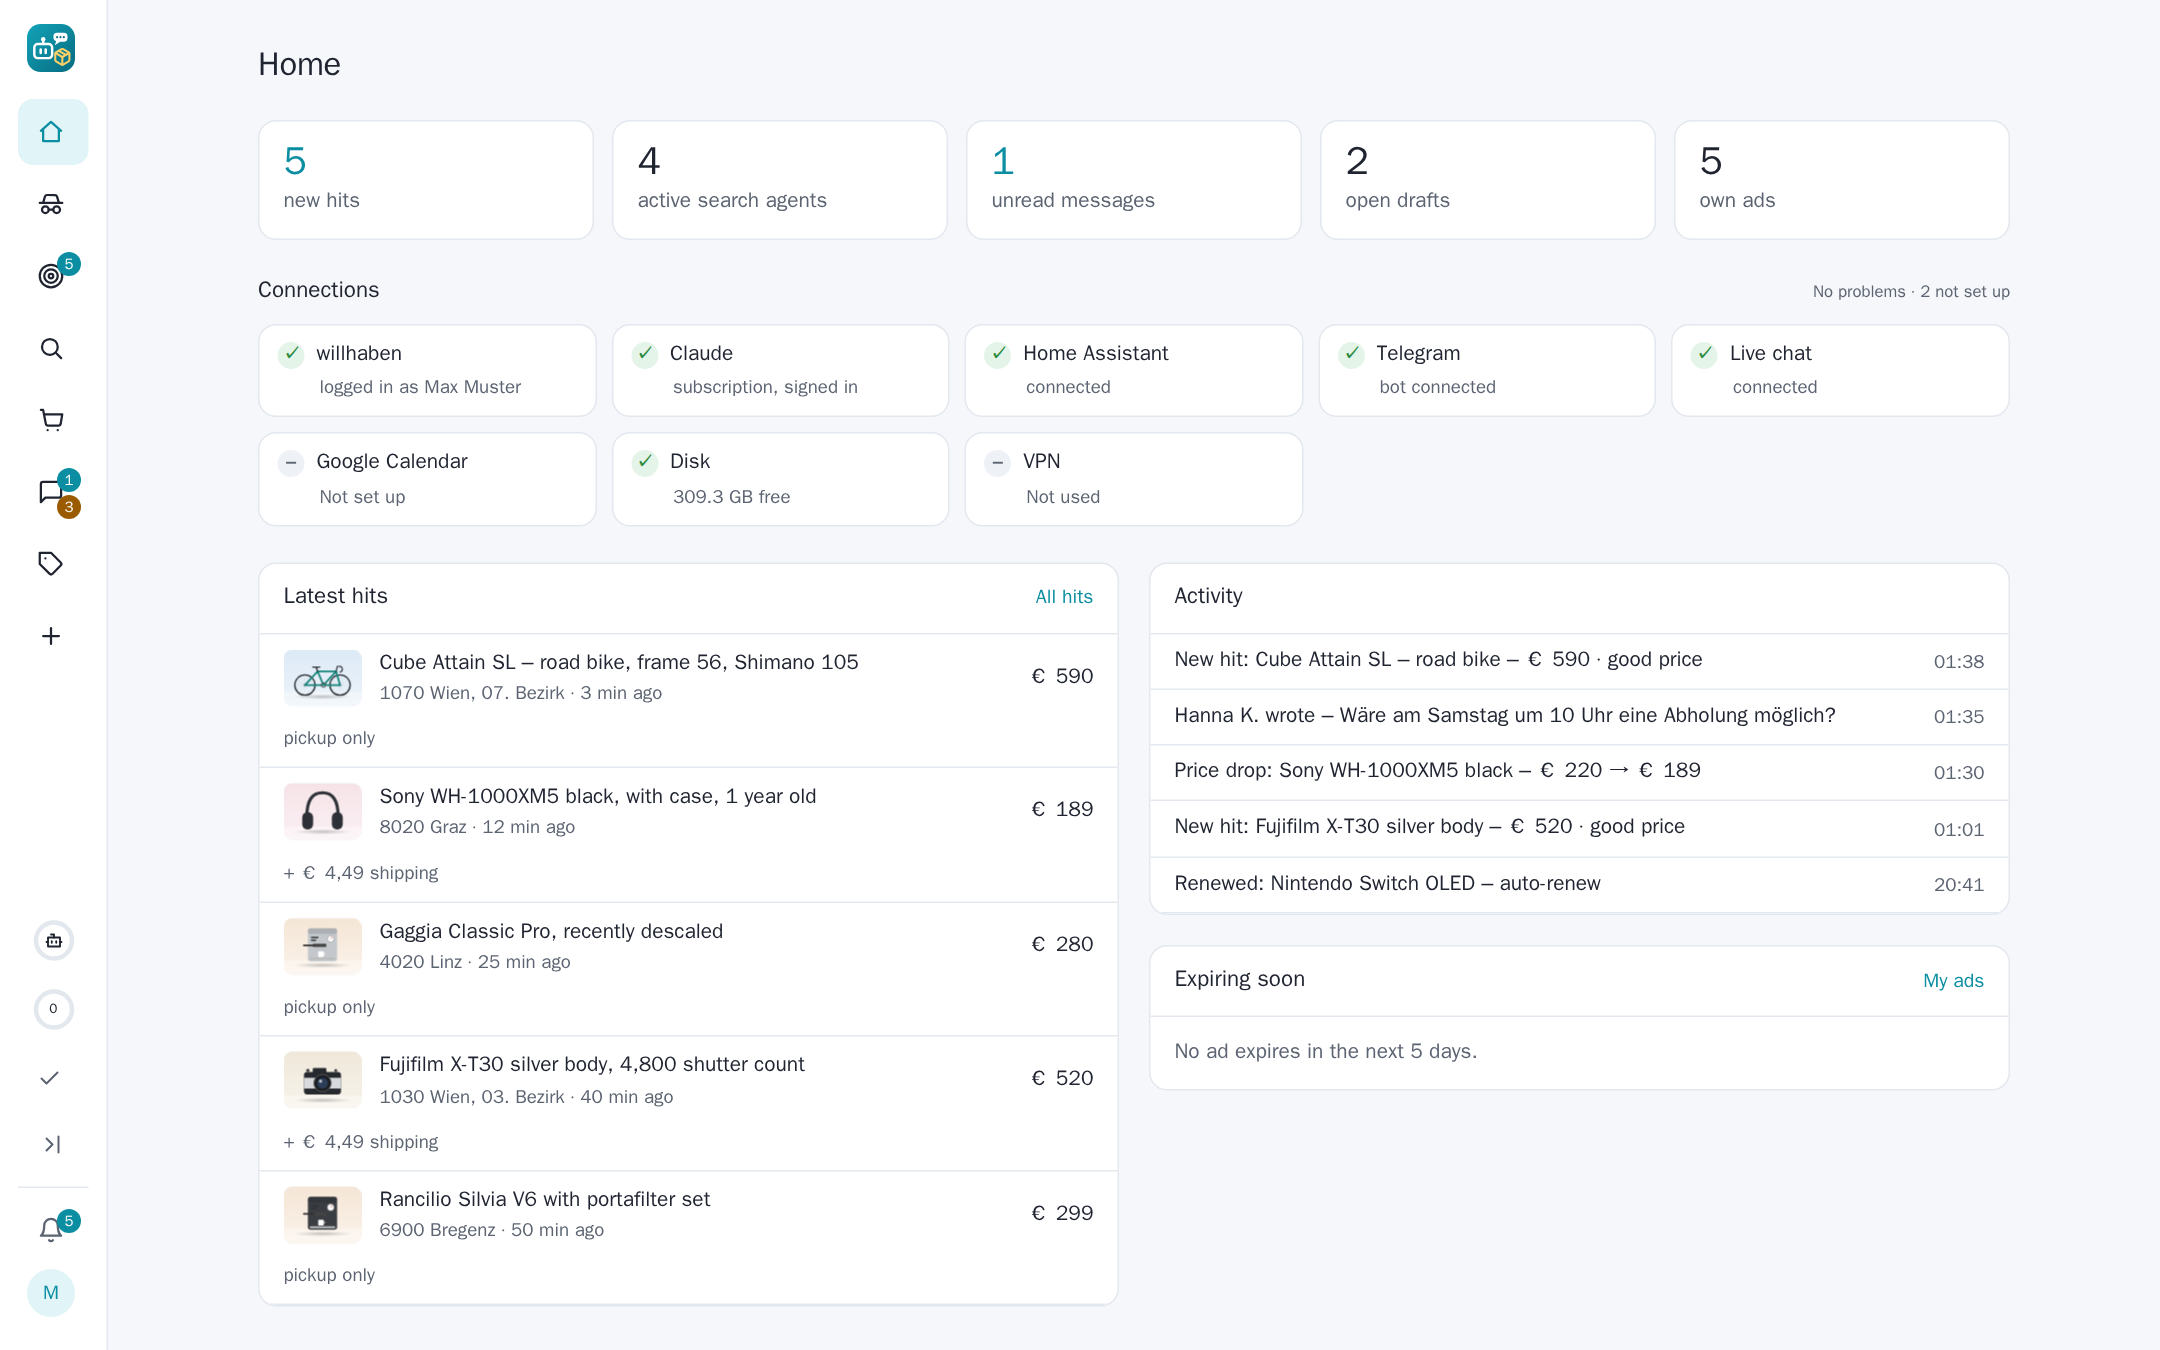
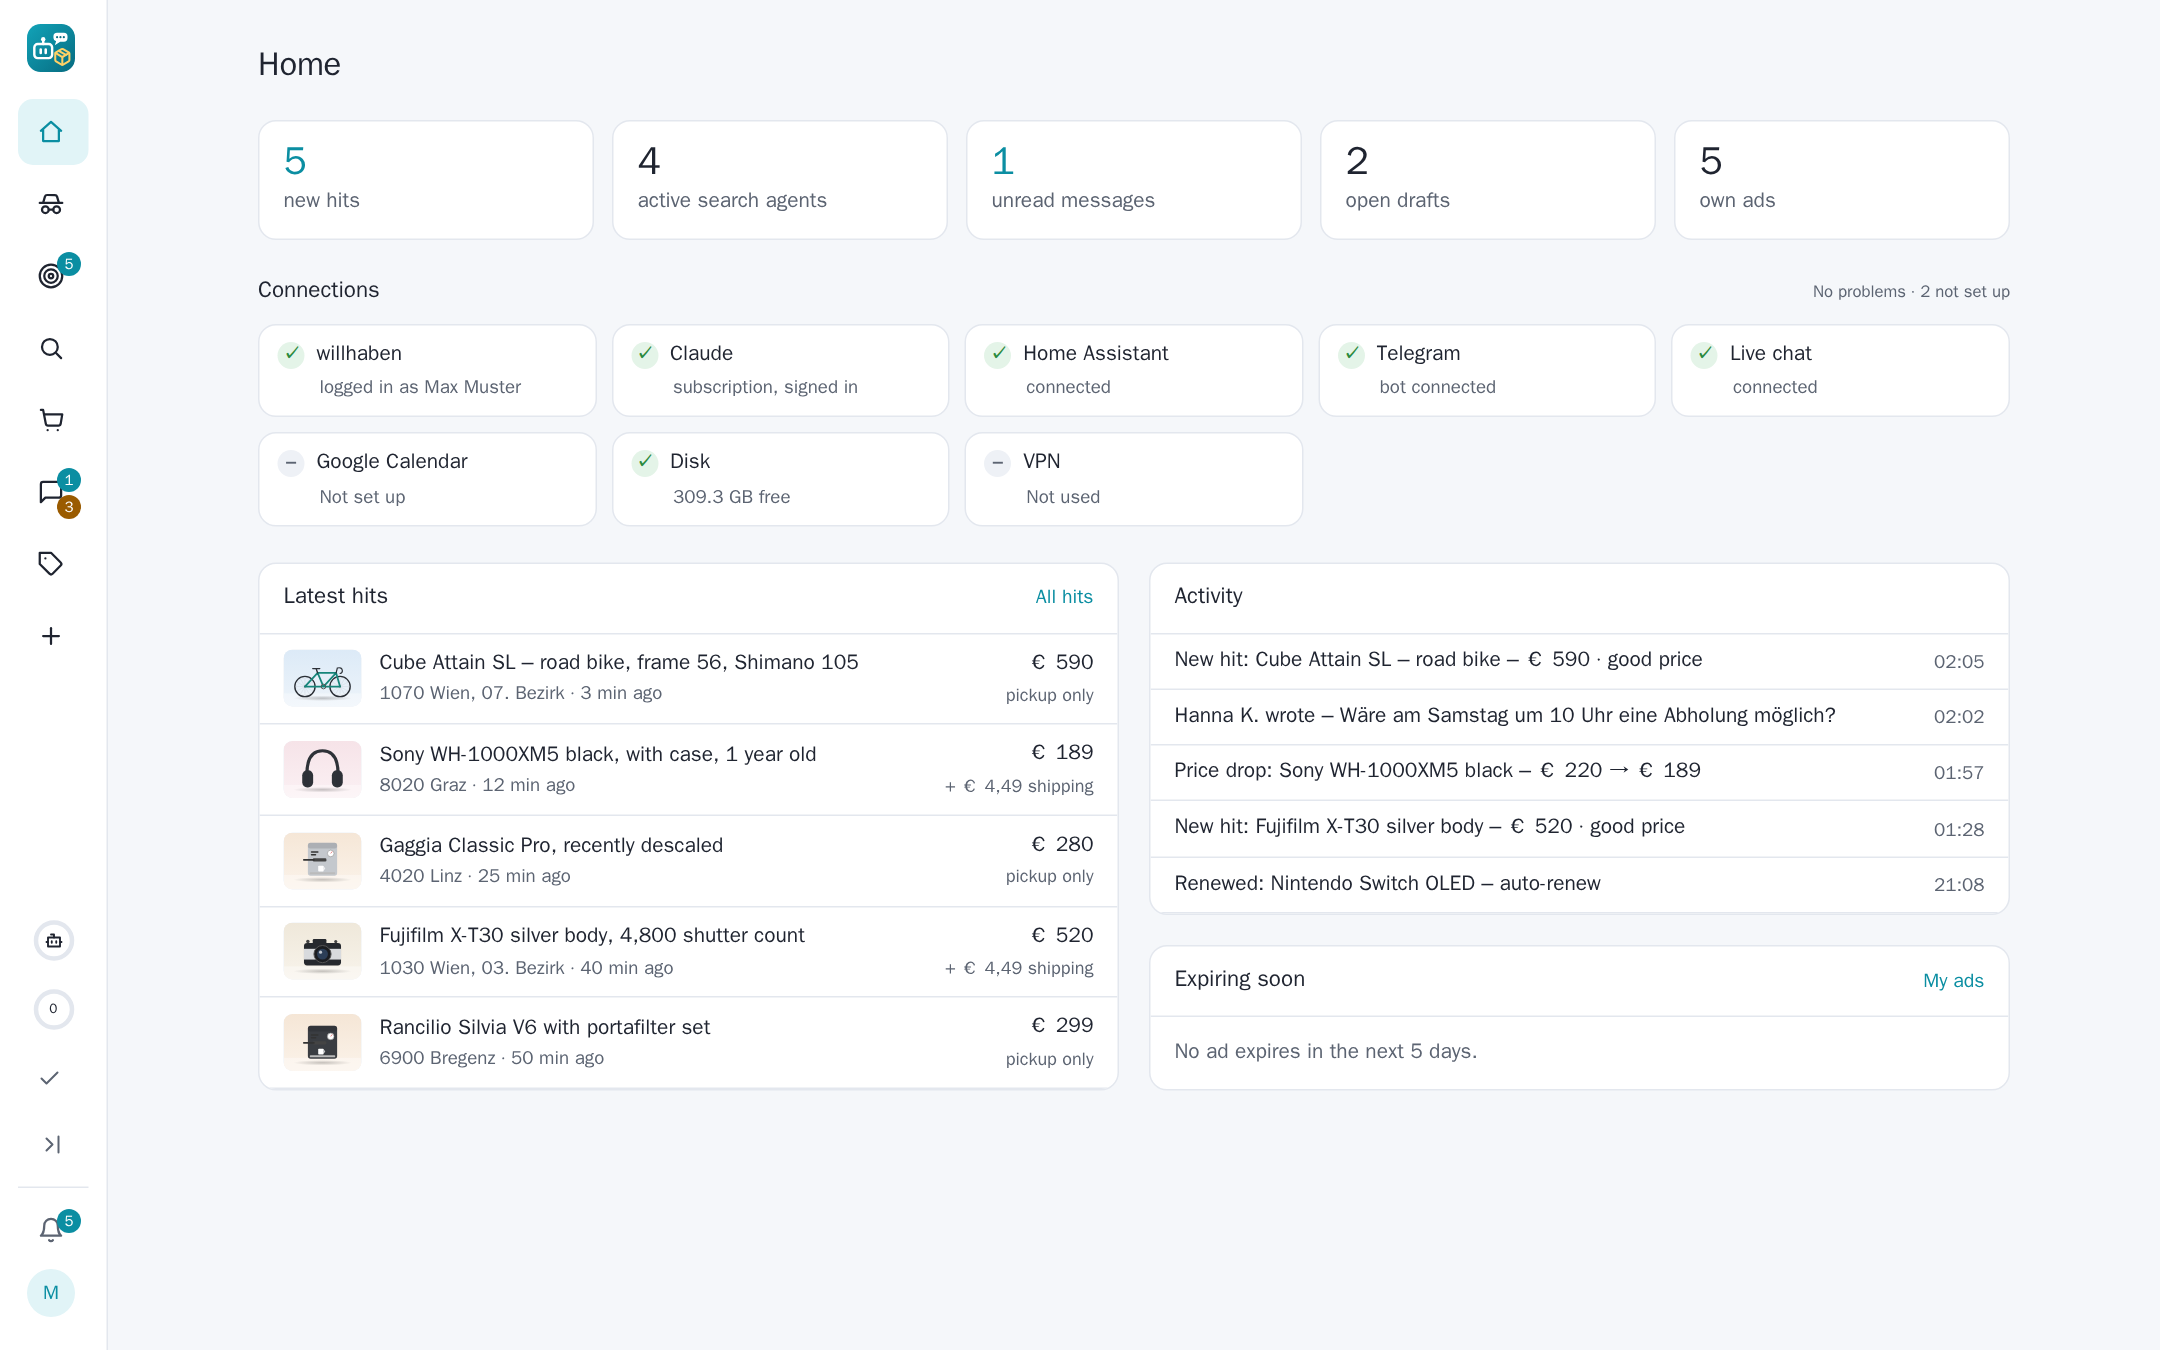
Polish: clearer sale button, the ad's status in the UI language
- The chat's sale button says what it does ("Mark sold to …") instead
  of reading like a status.
- A chat's ad status (stored in German for Claude) shows in the UI
  language, and not at all while the ad is simply online.
- Tests follow the singular counts; the demo uses real draft intents;
  README screenshots renewed.

Claude-Session: https://claude.ai/code/session_01EVgoGxr1Bpv8GkskYJcxcx

diff --git a/app/templates/chat.html b/app/templates/chat.html
@@ -198,7 +198,7 @@
     <div class="flex min-w-0 flex-col gap-1 px-3.5 py-3">
       <div class="flex min-w-0 flex-wrap items-center gap-1.5">{{ ui.tag(_("Selling") if selling else _("Buying"), not selling) }}<span class="text-[12.5px] text-muted">{{ _("Your ad") if selling else _("Someone else's ad") }}</span></div>
       <a href="{{ ad.url }}" target="_blank" rel="noopener" class="break-words font-semibold text-base-content no-underline hover:underline">{{ ad.title }}</a>
-      {% set where = [ad.location, ad.status]|select|join(' · ') %}
+      {% set where = [ad.location, ad_status_label(ad.status)]|select|join(' · ') %}
       {% if ad.price or where %}<div class="flex min-w-0 flex-wrap items-baseline gap-x-2 gap-y-0.5">{% if ad.price %}<span class="text-[15px] font-semibold tabular-nums">{{ ad.price }}</span>{% endif %}{% if where %}<span class="min-w-0 break-words text-[12.5px] text-muted">{{ where }}</span>{% endif %}</div>{% endif %}
       {% if ad.description %}<details class="mt-1.5 text-[13px]"><summary class="cursor-pointer text-primary">{{ _("Description") }}</summary><p class="mt-1.5 break-words whitespace-pre-wrap">{{ ad.description }}</p></details>{% endif %}
     </div>

diff --git a/app/templates/tg/_panels.html b/app/templates/tg/_panels.html
@@ -44,7 +44,7 @@
       {% if st %}<span style="display: grid; grid-template-columns: 1fr 1fr; gap: 6px">
         <label class="sub">{{ _("Pieces") }}<input class="field" type="number" name="pieces" value="1" min="1" max="{{ st.remaining }}" required></label>
         <label class="sub">{{ _("Total price (€, optional)") }}<input class="field" inputmode="decimal" name="price" value="{{ ('%.2f'|format(p.agreed)).rstrip('0').rstrip('.') if p.agreed is not none else '' }}"></label></span>{% endif %}
-      <button class="chip primary" style="width: 100%" data-sell>{{ ui.icon('check', 14) }} {% if who %}{{ _("Sold to {name}", name=who) }}{% elif st %}{{ _("Record sale") }}{% else %}{{ _("Mark sold") }}{% endif %}</button>
+      <button class="chip primary" style="width: 100%" data-sell>{{ ui.icon('check', 14) }} {% if who %}{{ _("Mark sold to {name}", name=who) }}{% elif st %}{{ _("Record sale") }}{% else %}{{ _("Mark sold") }}{% endif %}</button>
     </form>
     {% endif %}
     {% if kind == 'reserved' %}

diff --git a/app/templates/tg/chat_info.html b/app/templates/tg/chat_info.html
@@ -25,7 +25,7 @@
     {% if ad.images %}<img src="{{ ad.images[0] }}" alt="" style="display: block; width: 100%; height: 180px; object-fit: cover; background: rgba(118,118,128,.2)" onerror="this.style.display='none'">{% endif %}
     <div style="padding: 10px 14px; display: flex; flex-direction: column; gap: 4px">
       <a href="{{ ad.url }}" target="_blank" hx-boost="false" style="font-weight: 600; color: var(--text)">{{ ad.title }} ↗</a>
-      {% set where = [ad.location, ad.status]|select|join(' · ') %}
+      {% set where = [ad.location, ad_status_label(ad.status)]|select|join(' · ') %}
       <span>{% if ad.price %}<strong>{{ ad.price }}</strong>{% endif %}{% if where %} <span class="sub">{{ where }}</span>{% endif %}</span>
       {% if ad.description %}<details><summary class="sub" style="color: var(--link)">{{ _("Description") }}</summary><p style="font-size: 14px; white-space: pre-wrap; overflow-wrap: anywhere">{{ ad.description }}</p></details>{% endif %}
     </div>

diff --git a/app/templates/_sale_actions.html b/app/templates/_sale_actions.html
@@ -57,7 +57,7 @@
       {% endif %}
       <button class="{{ 'btn btn-primary whitespace-nowrap max-sm:px-2 max-sm:text-[13px]' if inline else 'btn btn-primary btn-sm h-auto min-h-8 w-full justify-start py-1.5 text-left whitespace-normal break-words' }}"
               title="{{ _('Records the sale here (automatic answers off) and marks the ad sold on willhaben – that step waits a few seconds in the queue, where you can take it back.') if not st else _('Records the sale here; the last piece marks the ad sold on willhaben.') }}">
-        {{ ui.icon('check', 14) }}{% if who %}{{ _("Sold to {name}", name=who) }}{% elif st %}{{ _("Record sale") }}{% else %}{{ _("Mark sold") }}{% endif %}</button>
+        {{ ui.icon('check', 14) }}{% if who %}{{ _("Mark sold to {name}", name=who) }}{% elif st %}{{ _("Record sale") }}{% else %}{{ _("Mark sold") }}{% endif %}</button>
     </form>
     {% endif %}
     {% if kind == 'reserved' %}

diff --git a/tests/test_sold.py b/tests/test_sold.py
@@ -271,10 +271,10 @@ def test_web_flow(ad_with_chats, monkeypatch):
     s = FakeSession(_page(_links("setAdSold"), "adId=1"), REASONS)
     monkeypatch.setattr(sold, "get_session", lambda: s)
     with TestClient(app) as c:
-        assert "Sold to Max Muster" in c.get("/chats/c-buyer").text
+        assert "Mark sold to Max Muster" in c.get("/chats/c-buyer").text
         assert f"/sold/{AD}?kind=sold" in c.get("/myads").text
         page = c.get(f"/sold/{AD}?kind=sold&buyer=c-buyer").text
-        assert "Erika Muster" in page and "Sold to Max Muster" in page and "Reserve for Max Muster" in page
+        assert "Erika Muster" in page and "Mark sold to Max Muster" in page and "Reserve for Max Muster" in page
         assert 'hx-post="/sold/1000000001/reserve"' in c.get("/chats/c-buyer").text        # one click, no extra page
         myads = c.get(f"/myads?ad={AD}").text
         assert 'hx-post="/sold/1000000001/sell"' in myads and "Mark sold…" not in myads
@@ -316,7 +316,7 @@ def test_web_flow(ad_with_chats, monkeypatch):
 
         # the sold ad: no second sale button; "Not sold after all" lifts the local status only
         page = c.get("/chats/c-buyer").text
-        assert "to this buyer" in page and "Sold to Max Muster" not in page and "Not sold after all" in page
+        assert "to this buyer" in page and "Mark sold to Max Muster" not in page and "Not sold after all" in page
         r = c.post(f"/sold/{AD}/reset", data={"kind": "sold", "buyer": "c-buyer", "next": "/chats/c-buyer"}, follow_redirects=False)
         assert r.headers["location"] == "/chats/c-buyer" and sold.ad_row(AD).sale_status is None
 
@@ -607,7 +607,7 @@ def test_stock_web_flow(ad_with_chats, monkeypatch):
         db.commit()
     with TestClient(app) as c:
         page = c.get(f"/sold/{AD}?kind=sold&buyer=c-buyer").text
-        assert 'name="pieces"' not in page and "Sold to Max Muster" in page and "Stock" not in page   # one item: as before
+        assert 'name="pieces"' not in page and "Mark sold to Max Muster" in page and "Stock" not in page   # one item: as before
 
         assert c.post(f"/myads/{AD}/quantity", data={"quantity": "3"}, headers=auto).json() == {"ok": True, "error": None}
         for bad in ("0", "1000", "abc", "-2"):
@@ -618,7 +618,7 @@ def test_stock_web_flow(ad_with_chats, monkeypatch):
 
         page = c.get(f"/sold/{AD}?kind=sold&buyer=c-buyer").text
         assert "3 of 3 pieces left" in page and 'name="pieces"' in page and 'value="40.5"' in page
-        assert "Sold to Max Muster" in page and "Mark on willhaben" not in page and 'name="conv"' not in page
+        assert "Mark sold to Max Muster" in page and "Mark on willhaben" not in page and 'name="conv"' not in page
         assert page.count("the others are told only with the last piece") == 1
         assert "Record sale" in c.get(f"/sold/{AD}?kind=sold").text                      # no buyer: the plain label
 
@@ -672,7 +672,7 @@ def test_stock_web_flow(ad_with_chats, monkeypatch):
         last = _sale_of("c-2")
         r = c.post(f"/sold/{AD}/sales/{last.id}/undo", data={"kind": "sold", "buyer": "c-2"})
         assert "automatic answers and auto-renew stay off until you switch them on again" in r.text
-        assert "Sold to Erika Muster" in r.text and 'name="pieces"' in r.text          # pieces again: the sale form is back
+        assert "Mark sold to Erika Muster" in r.text and 'name="pieces"' in r.text          # pieces again: the sale form is back
         assert c.post(f"/myads/{AD}/quantity", data={"quantity": ""}, headers=auto).json()["ok"] is True
     assert sold.ad_row(AD).quantity is None
 

diff --git a/scripts/demo_screenshots.py b/scripts/demo_screenshots.py
@@ -318,11 +318,11 @@ def seed() -> None:
                            read=True if d == "out" else None))
         db.add(Draft(conversation_id="c1", text="Hallo Hanna, Samstag um 10 Uhr passt gut. Die Adresse ist Musterstraße 1, "
                      "1070 Wien – läute bitte bei Muster. Das Rad ist frisch geputzt und die Bremsen sind eingestellt.",
-                     intent="appointment", model="claude-sonnet-5-5", created_at=ago(minutes=5),
+                     intent="logistics", model="claude-sonnet-5-5", created_at=ago(minutes=5),
                      alternatives=[{"label": "Sonntag vorschlagen", "instruction": "Schlag Sonntag 11 Uhr vor"},
                                    {"label": "Nur Versand", "instruction": "Biete Versand an"}]))
         db.add(Draft(conversation_id="c3", text="Hallo Sabine, 220 € ist mir zu wenig – 245 € inklusive der beiden Spiele "
-                     "wäre für mich in Ordnung.", intent="negotiate", model="claude-sonnet-5-5", created_at=ago(minutes=119),
+                     "wäre für mich in Ordnung.", intent="price_negotiation", model="claude-sonnet-5-5", created_at=ago(minutes=119),
                      suggested_price=245))
 
         # own ads

diff --git a/app/services/chats.py b/app/services/chats.py
@@ -823,6 +823,20 @@ def clean_alternatives(raw: Any) -> list[dict[str, str]] | None:
     return out or None
 
 
+def ad_status_label(status: str | None) -> str:
+    """The ad's status from a chat's ad context, for the page (Jinja global): stored in German or as the site's word
+    because Claude reads it; shown in the UI language, and "" while the ad is simply online."""
+    low = (status or "").strip().lower()
+    if not low or low.startswith(("active", "aktiv")):
+        return ""
+    if "nicht mehr online" in low or low in ("gone", "deleted"):
+        return t("no longer online")
+    for key in ("sold", "reserved", "expired"):
+        if low.startswith(key) or low.startswith({"sold": "verkauft", "reserved": "reserviert", "expired": "abgelaufen"}[key]):
+            return t(key)
+    return status or ""
+
+
 def intent_label(intent: str | None) -> str:
     """A draft's intent in the UI language (Jinja global, the draft's header on the chat page): REPLY_SCHEMA's enum
     and sold.NOTICE_INTENTS. "" for none and for "other" (says nothing); an unknown value (a draft saved over the API)

diff --git a/app/main.py b/app/main.py
@@ -290,7 +290,7 @@ templates.env.globals.update(presence_of=lambda conv: chats.presence_of(conv),  
 templates.env.globals.update(credentials_state=credentials_svc.stored)   # login details card (services/credentials.py)
 templates.env.globals.update(login_sites=lambda: [("willhaben", "willhaben")] + [(s.id, s.name) for s in site_accounts.SITES.values()])
 templates.env.globals.update(paylivery_step=lambda d, conv: paylivery_advice.view(d, conv))   # the draft's PayLivery step
-templates.env.globals.update(intent_label=chats.intent_label)        # the draft's header on the chat page
+templates.env.globals.update(intent_label=chats.intent_label, ad_status_label=chats.ad_status_label)        # the draft's header on the chat page
 templates.env.globals.update(style_panel=style_svc.panel)   # Settings → My rules → Writing style
 templates.env.globals.update(purchase_card=purchase_svc.card, purchase_enabled=purchase_routes.enabled,   # Kaufauftrag
                              purchase_settings=purchase_routes.settings_values, purchase_notice=purchase_routes.notice)

diff --git a/tests/test_geizhals.py b/tests/test_geizhals.py
@@ -288,7 +288,7 @@ def test_settings_lists_the_cache_and_clears_it(client):  # noqa: F811
         ses.commit()
     page = client.get("/settings/geizhals").text
     assert "Cached lookups" in page and "RTX 4.090" in page and "NVIDIA RTX 4090 Founders Edition" in page
-    assert "1 hits" in page and "fetched again on the next lookup" in page        # the product page is over a week old
+    assert "1 hit" in page and "1 hits" not in page and "fetched again on the next lookup" in page        # the product page is over a week old
     r = client.post("/settings/geizhals/clear", follow_redirects=False)
     assert r.status_code == 303 and "2%20cached%20answers%20deleted" in r.headers["location"]
     assert "Nothing cached yet." in client.get("/settings/geizhals").text

diff --git a/tests/test_i18n.py b/tests/test_i18n.py
@@ -68,3 +68,13 @@ def test_one_takes_the_singular():
     assert i18n.t("{n} comparable ads", n=1) == "1 vergleichbare Anzeige"
     assert i18n.t("{n} new hits", n=3) == "3 neue Treffer"
     i18n.set_request_lang("en")
+
+
+def test_a_chats_ad_status_in_the_ui_language():
+    from app.services.chats import ad_status_label
+    i18n.set_request_lang("en")
+    assert ad_status_label("aktiv (eigene Anzeige, Daten aus dem Anzeigen-Editor)") == "" and ad_status_label("active") == ""
+    assert ad_status_label("nicht mehr online") == "no longer online" and ad_status_label("sold") == "sold"
+    i18n.set_request_lang("de")
+    assert ad_status_label("reserved") == "reserviert"
+    i18n.set_request_lang("en")

diff --git a/tests/test_live_updates.py b/tests/test_live_updates.py
@@ -59,7 +59,7 @@ async def test_ad_batch_shows_as_a_job_with_its_result():
     ad_batch.spawn(wrote_one_draft(), batch_id=b.id, label="Claude schreibt 2 Entwürfe")
     await asyncio.gather(*ad_batch._tasks)
     done = jobs.snapshot()["recent"][0]
-    assert done["result"] == "1 drafts written" and done["problems"] == 1
+    assert done["result"] == "1 draft written" and done["problems"] == 1
 
     async def failed():
         ad_batch._update(b.id, status="error", error="Sorting failed: timeout")
